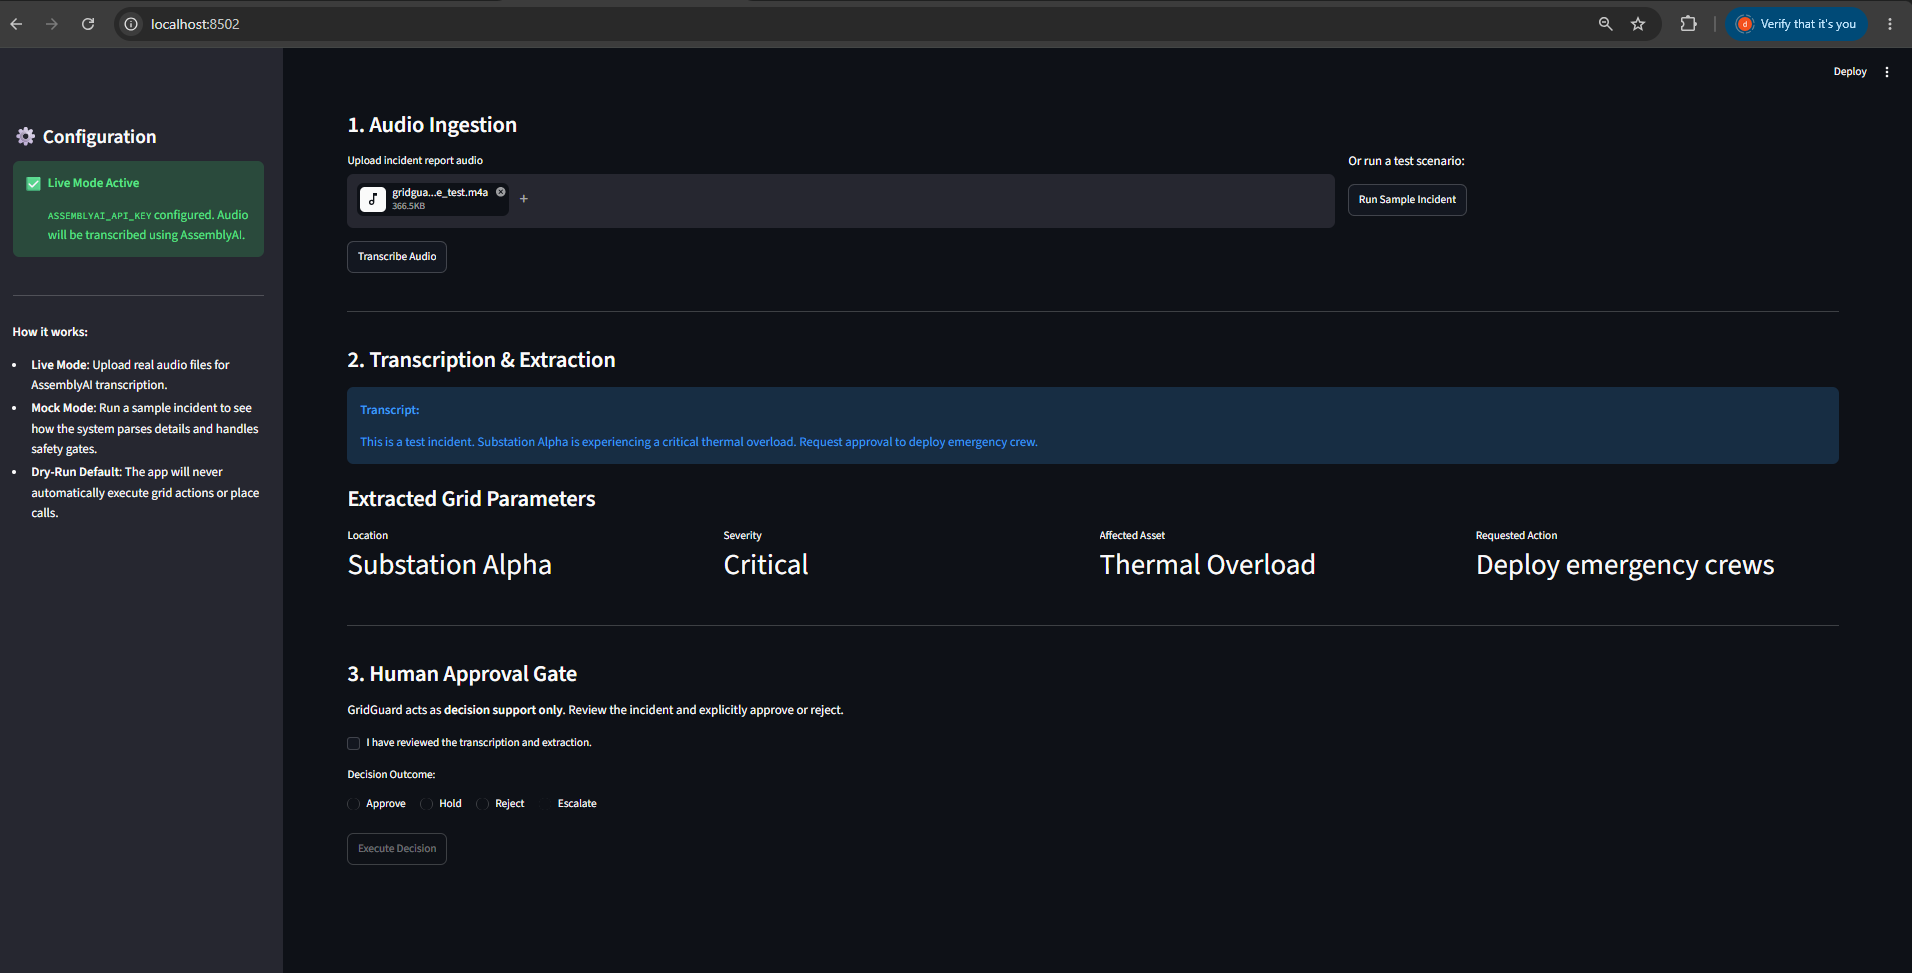
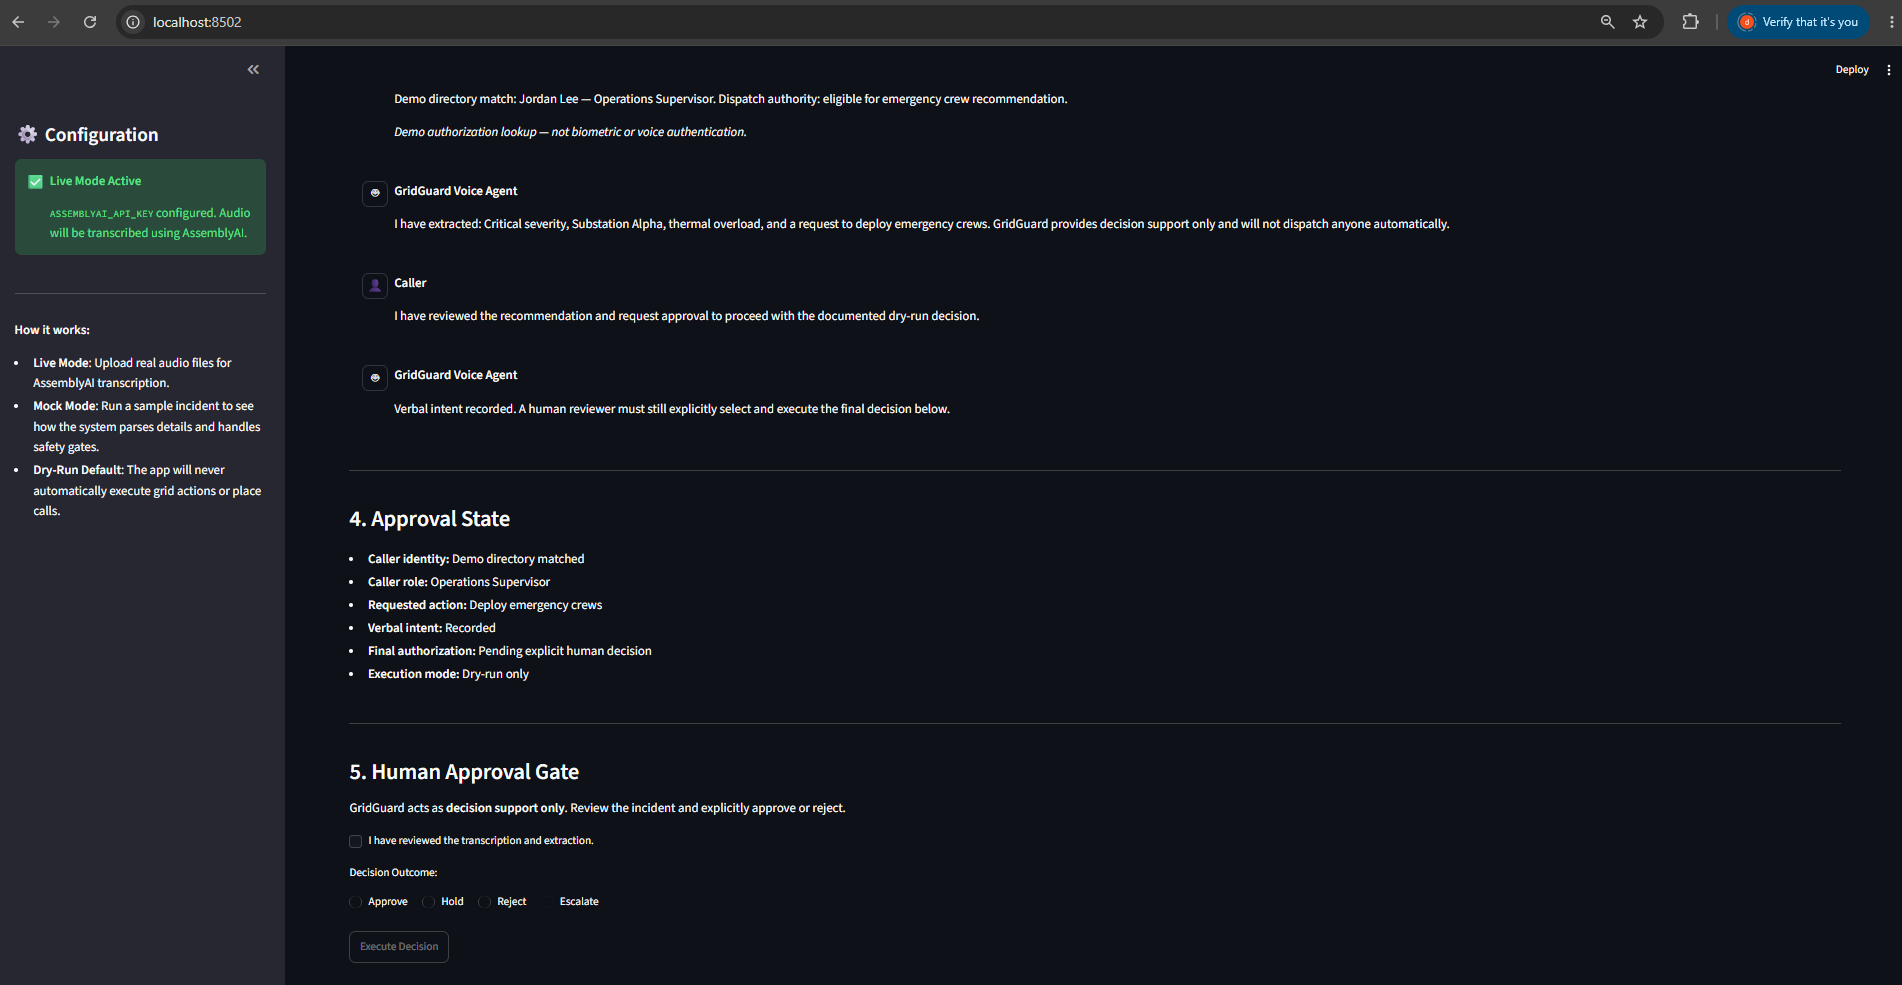
docs: finalize voice agent demo evidence

diff --git a/README.md b/README.md
@@ -71,8 +71,8 @@ GridGuard supports both:
 3. **Live AssemblyAI transcription and extraction:** demonstrates a real uploaded audio file transcribed through AssemblyAI, with location, severity, affected asset, and requested action extracted.
 ![Live AssemblyAI transcription and extraction](docs/images/03-live-transcription-extraction.png)
 
-4. **Human approval required:** demonstrates that a critical live incident cannot proceed until a human explicitly confirms review and selects a decision.
+4. **Human approval required:** Live AssemblyAI transcription feeds the Conversation Review Panel and deterministic demo authorization context. Verbal intent is recorded, but final authorization remains pending until a human reviewer explicitly selects and executes a decision.
 ![Human approval required](docs/images/04-human-approval-required.png)
 
-5. **Approved dry-run audit trail:** demonstrates an approved live workflow being recorded to the audit trail while GridGuard remains decision support only and never executes grid actions or contacts people automatically.
+5. **Approved dry-run audit trail:** After explicit human approval, the Approval State updates with the documented decision, confirms dry-run-only execution with no grid action taken, and records the audit packet successfully.
 ![Approved dry-run audit trail](docs/images/05-approved-dry-run-audit-trail.png)
